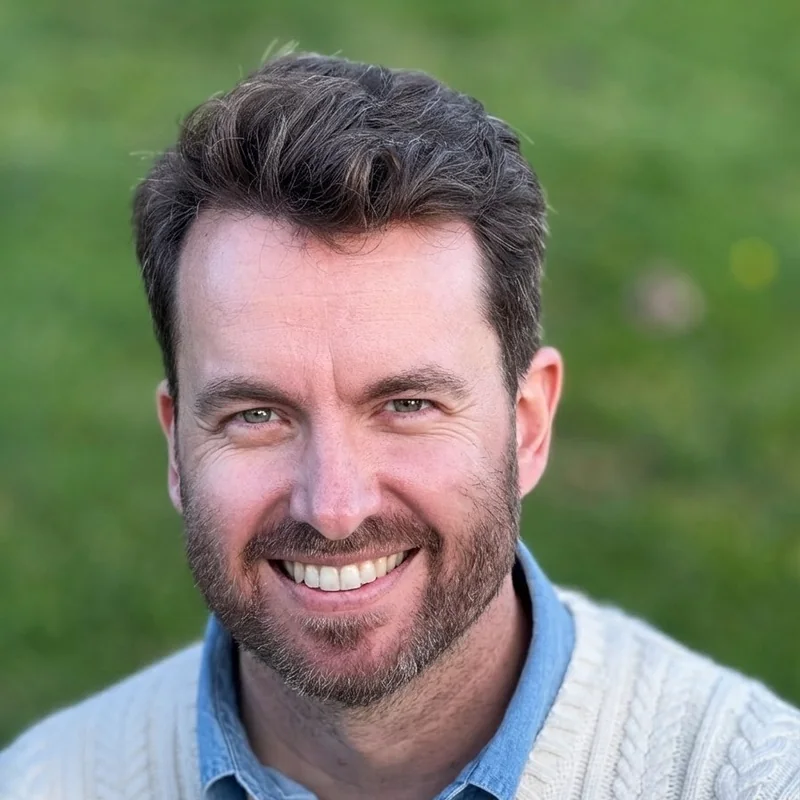
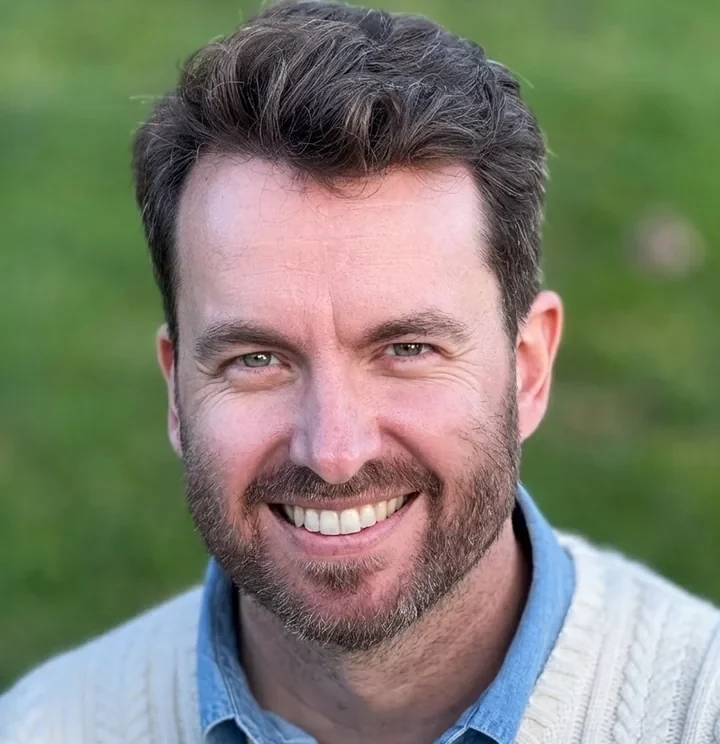
Name card: crop the photo tighter at the top and right
Claude-Session: https://claude.ai/code/session_01CqFpLx3pWW9JjR3pJTfamf

diff --git a/index.html b/index.html
@@ -52,8 +52,8 @@
             ]
         }
         </script>
-        <link rel="stylesheet" href="assets/fonts/geist.css?v=20261117e" />
-        <link rel="stylesheet" href="styles.css?v=20261117e" />
+        <link rel="stylesheet" href="assets/fonts/geist.css?v=20261117f" />
+        <link rel="stylesheet" href="styles.css?v=20261117f" />
         <link
             rel="icon"
             type="image/png"
@@ -257,7 +257,7 @@
                 link.href = "mailto:" + e + "@" + d;
             })();
         </script>
-        <script src="cards.js?v=20261117e" defer></script>
-        <script src="card-preview.js?v=20261117e" defer></script>
+        <script src="cards.js?v=20261117f" defer></script>
+        <script src="card-preview.js?v=20261117f" defer></script>
     </body>
 </html>

diff --git a/cards.js b/cards.js
@@ -87,9 +87,10 @@ window.DB_CARDS = {
                           : "Good evening!";
             return words + wave;
         },
-        image: "assets/cards/00-david.webp",
-        width: 800,
-        height: 800,
+        // ?v= because the photo was recropped under the same name.
+        image: "assets/cards/00-david.webp?v=2",
+        width: 720,
+        height: 744,
         tone: "#16191d",
         focus: "50% 30%",
         fullBleed: true,
